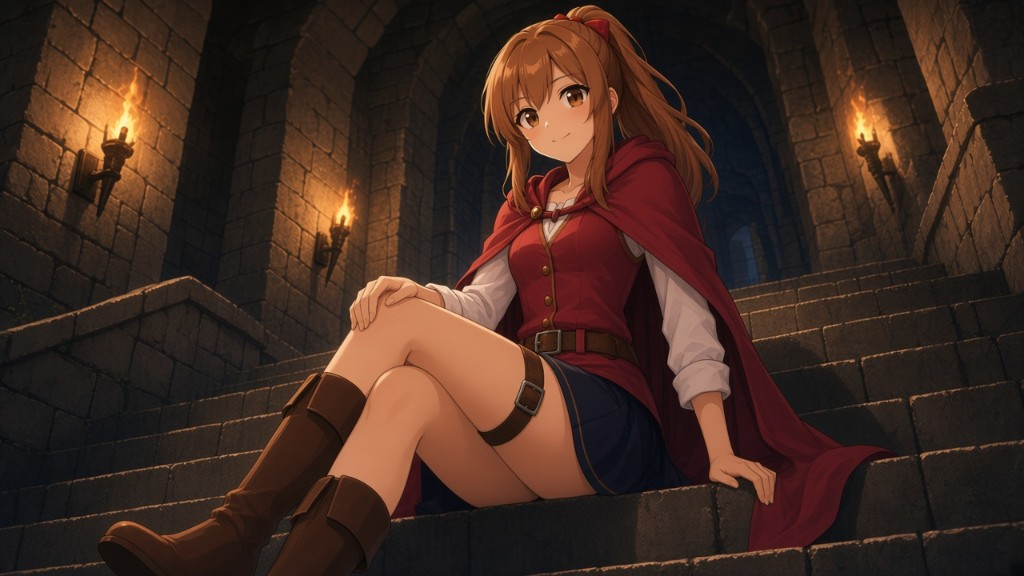
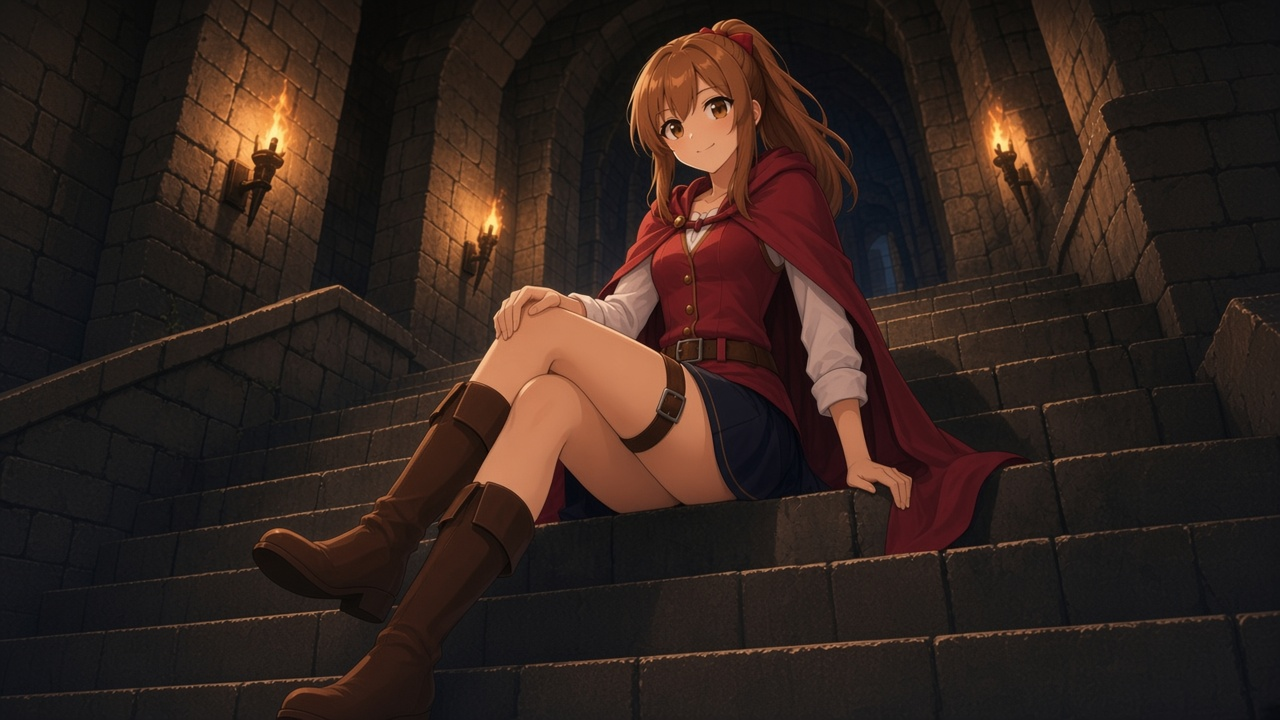
Sharpen the job portrait, show more of it, and enlarge the chibi.

diff --git a/index.html b/index.html
@@ -1616,7 +1616,7 @@
       padding: 4px;
       background: rgba(18, 14, 12, 0.55);
     }
-    .cast-token.mini img { width: 112px; height: 132px; object-fit: contain; filter: drop-shadow(0 4px 6px rgba(0, 0, 0, 0.5)); }
+    .cast-token.mini img { width: 168px; height: 210px; object-fit: contain; filter: drop-shadow(0 4px 6px rgba(0, 0, 0, 0.5)); }
     .cast-token.mini span { font-size: 16px; letter-spacing: 0.1em; }
     .cast-token.mini.shown { border-color: #e4b15a; }
     .cast-hero {
@@ -4810,15 +4810,15 @@
       align-items: stretch;
     }
     .challenge-job .cast-action {
-      width: 100%;
-      max-width: none;
-      height: 100%;
-      max-height: none;
-      aspect-ratio: auto;
-      justify-self: stretch;
-      align-self: stretch;
-      object-fit: cover;
-      object-position: center top;
+      width: auto;
+      max-width: 100%;
+      height: auto;
+      max-height: 100%;
+      aspect-ratio: 16 / 9;
+      justify-self: center;
+      align-self: center;
+      object-fit: contain;
+      object-position: center;
     }
     .challenge-job .cast-side {
       height: 100%;
@@ -4857,7 +4857,7 @@
       gap: 4px;
       justify-content: center;
     }
-    .challenge-job .cast-token.mini img { width: min(160px, 16vw); height: min(190px, 22vh); }
+    .challenge-job .cast-token.mini img { width: min(280px, 26vw); height: min(340px, 38vh); }
     .challenge-job .cast-token.mini span { font-size: 16px; }
     .challenge-dungeon .dungeon-preview {
       flex: 1 1 auto;
@@ -5836,8 +5836,8 @@
         name: "女の戦士",
         blurb: "剣と盾の近接職。パリィで受け流し、反撃で押し切る。",
         stand: "girl-front.png?v=11",
-        chibi: "job-girl.png?v=6",
-        action: "girl-action.jpg?v=4",
+        chibi: "job-girl.png?v=7",
+        action: "girl-action.jpg?v=5",
         battle: "girl-battle.png?v=24",
         battleRatio: "3 / 4",
         defeat: "girl-defeat.png?v=9",
@@ -9253,10 +9253,10 @@
             <h3>ジョブ選択</h3>
             <div class="ref-grid">
               ${sheetFig("girl-front.png?v=11", "女の戦士の立ち絵", "cut-ref")}
-              ${sheetFig("girl-action.jpg?v=4", "女の戦士の一枚絵", "land-ref", "span-2")}
+              ${sheetFig("girl-action.jpg?v=5", "女の戦士の一枚絵", "land-ref", "span-2")}
             </div>
             <div class="ref-grid">
-              ${sheetFig("job-girl.png?v=6", "女の戦士の選択コマ（正面デフォルメ）", "cut-ref")}
+              ${sheetFig("job-girl.png?v=7", "女の戦士の選択コマ（正面デフォルメ）", "cut-ref")}
             </div>
             <h3>タイトル</h3>
             ${sheetBanner("title-key.jpg?v=2", "タイトル", "左が女の戦士、右がモンスター軍団。")}
